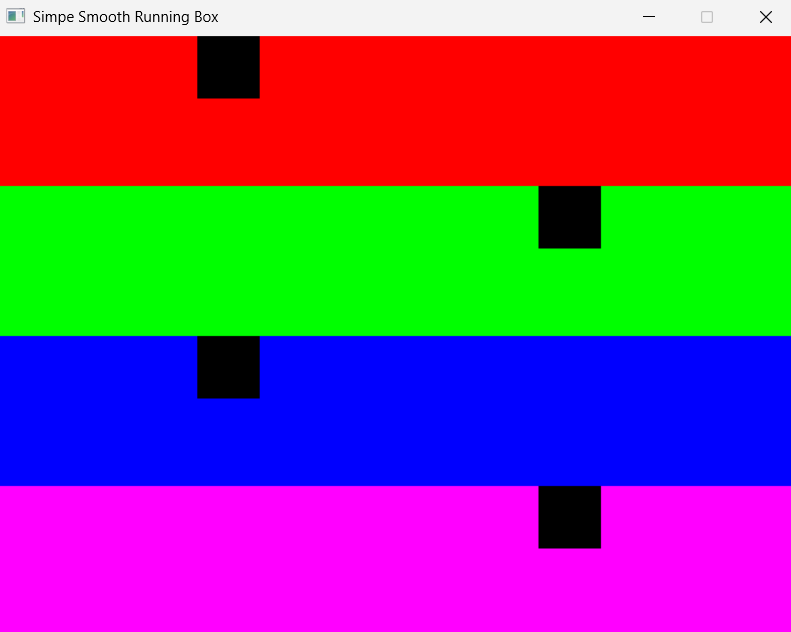
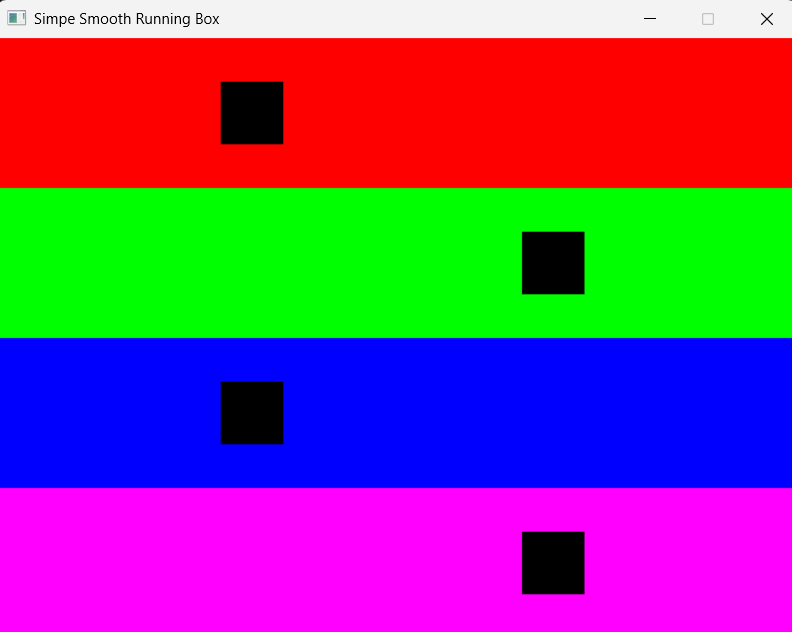
add delta time

diff --git a/src/main.rs b/src/main.rs
@@ -1,16 +1,18 @@
 use minifb::{Window, WindowOptions};
+use std::time::{Duration, Instant};
 
 fn main() {
     println!("Hello, world!");
 
-    let width = 1280;
-    let height = 720;
+    let width = 640;
+    let height = 480;
     let mut pin: usize = 0;
     let wh = width * height;
     let qheight = (height / 4);
-    let mut x = 0;
-    let mut xx = width;
+    let mut x = 0.0;
+    let mut xx = width as f64;
     let round_size = 50;
+    let speed = 160.0;
 
     let mut buffer: Vec<u32> = vec![0; width * height];
     let mut window = Window::new(
@@ -22,8 +24,18 @@ fn main() {
     .unwrap();
 
     // window.set_target_fps(60);
+    let mut last_time = Instant::now();
+    let target_frame_time = Duration::from_secs_f64(1.0 / 60.0);
 
     while window.is_open() && !window.is_key_down(minifb::Key::Escape) {
+        // Calculate time since last frame
+        let now = Instant::now();
+        let delta = now - last_time;
+        last_time = now;
+
+        let seconds = delta.as_secs_f64() * speed;
+
+        // draw bg
         for i in buffer.iter_mut() {
             if pin < (wh / 4) * 1 {
                 *i = 0xff0000;
@@ -40,12 +52,26 @@ fn main() {
             if pin >= width * height {
                 pin = 0;
             }
+        } // end for
+        // end draw bg
+
+        // moving moving
+        if !window.is_key_down(minifb::Key::Space) {
+            x = (x + seconds) % width as f64;
+
+            if xx > 0.0 {
+                xx -= seconds;
+            } else {
+                xx = width as f64 - seconds;
+            }
         }
+
+        // draw box
 
         draw_rect(
             &mut buffer,
             width,
-            x,
+            x as usize,
             (qheight * 1) - (qheight - ((qheight - round_size) / 2)),
             round_size,
             round_size,
@@ -54,7 +80,7 @@ fn main() {
         draw_rect_flipped_x(
             &mut buffer,
             width,
-            xx,
+            xx as usize,
             (qheight * 2) - (qheight - ((qheight - round_size) / 2)),
             round_size,
             round_size,
@@ -63,7 +89,7 @@ fn main() {
         draw_rect(
             &mut buffer,
             width,
-            x,
+            x as usize,
             (qheight * 3) - (qheight - ((qheight - round_size) / 2)),
             round_size,
             round_size,
@@ -72,24 +98,20 @@ fn main() {
         draw_rect_flipped_x(
             &mut buffer,
             width,
-            xx,
+            xx as usize,
             (qheight * 4) - (qheight - ((qheight - round_size) / 2)),
             round_size,
             round_size,
             0x000000,
         );
 
-        if !window.is_key_down(minifb::Key::Space) {
-            x = (x + 1) % width;
-
-            if xx > 0 {
-                xx -= 1;
-            } else {
-                xx = width - 1;
-            }
-        }
-
+        // push frame
         window.update_with_buffer(&buffer, width, height).unwrap();
+
+        // Optional: sleep to cap frame rate
+        if delta < target_frame_time {
+            std::thread::sleep(target_frame_time - delta);
+        }
     }
 } // end func
 
